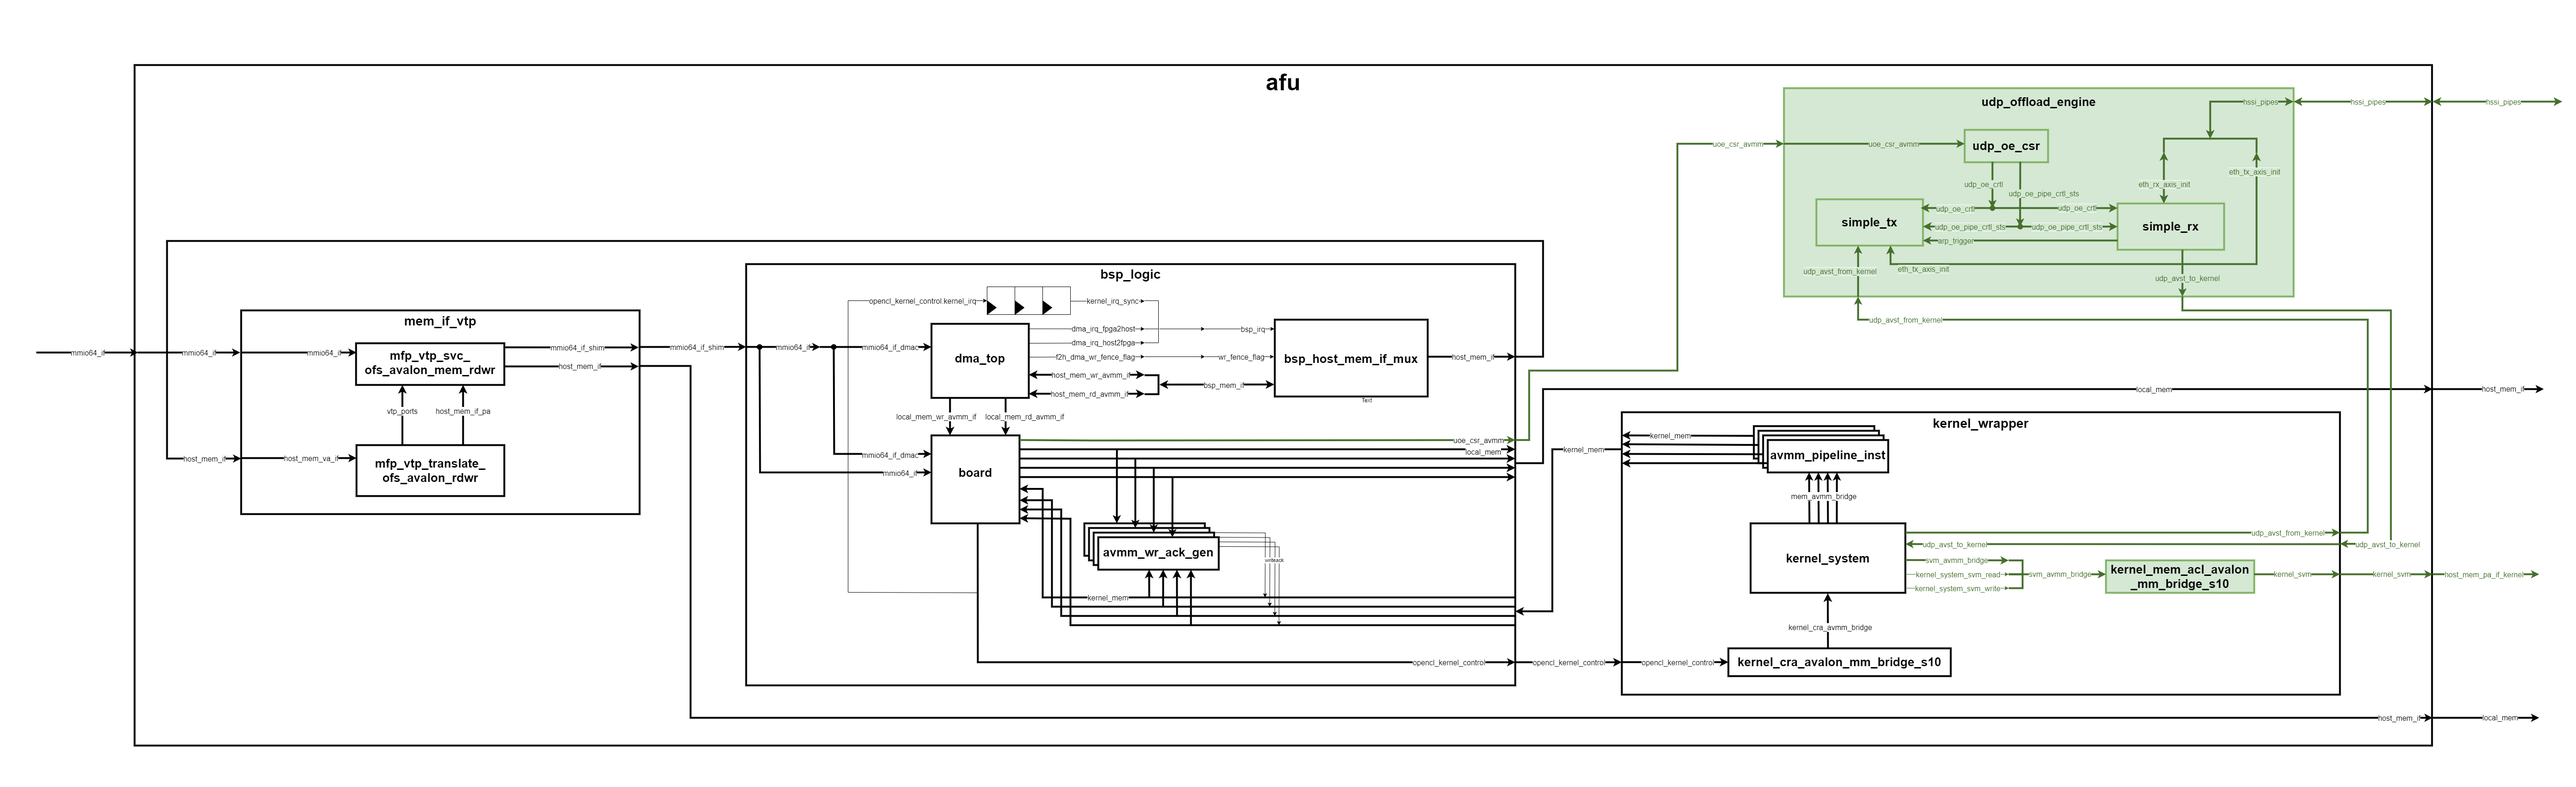
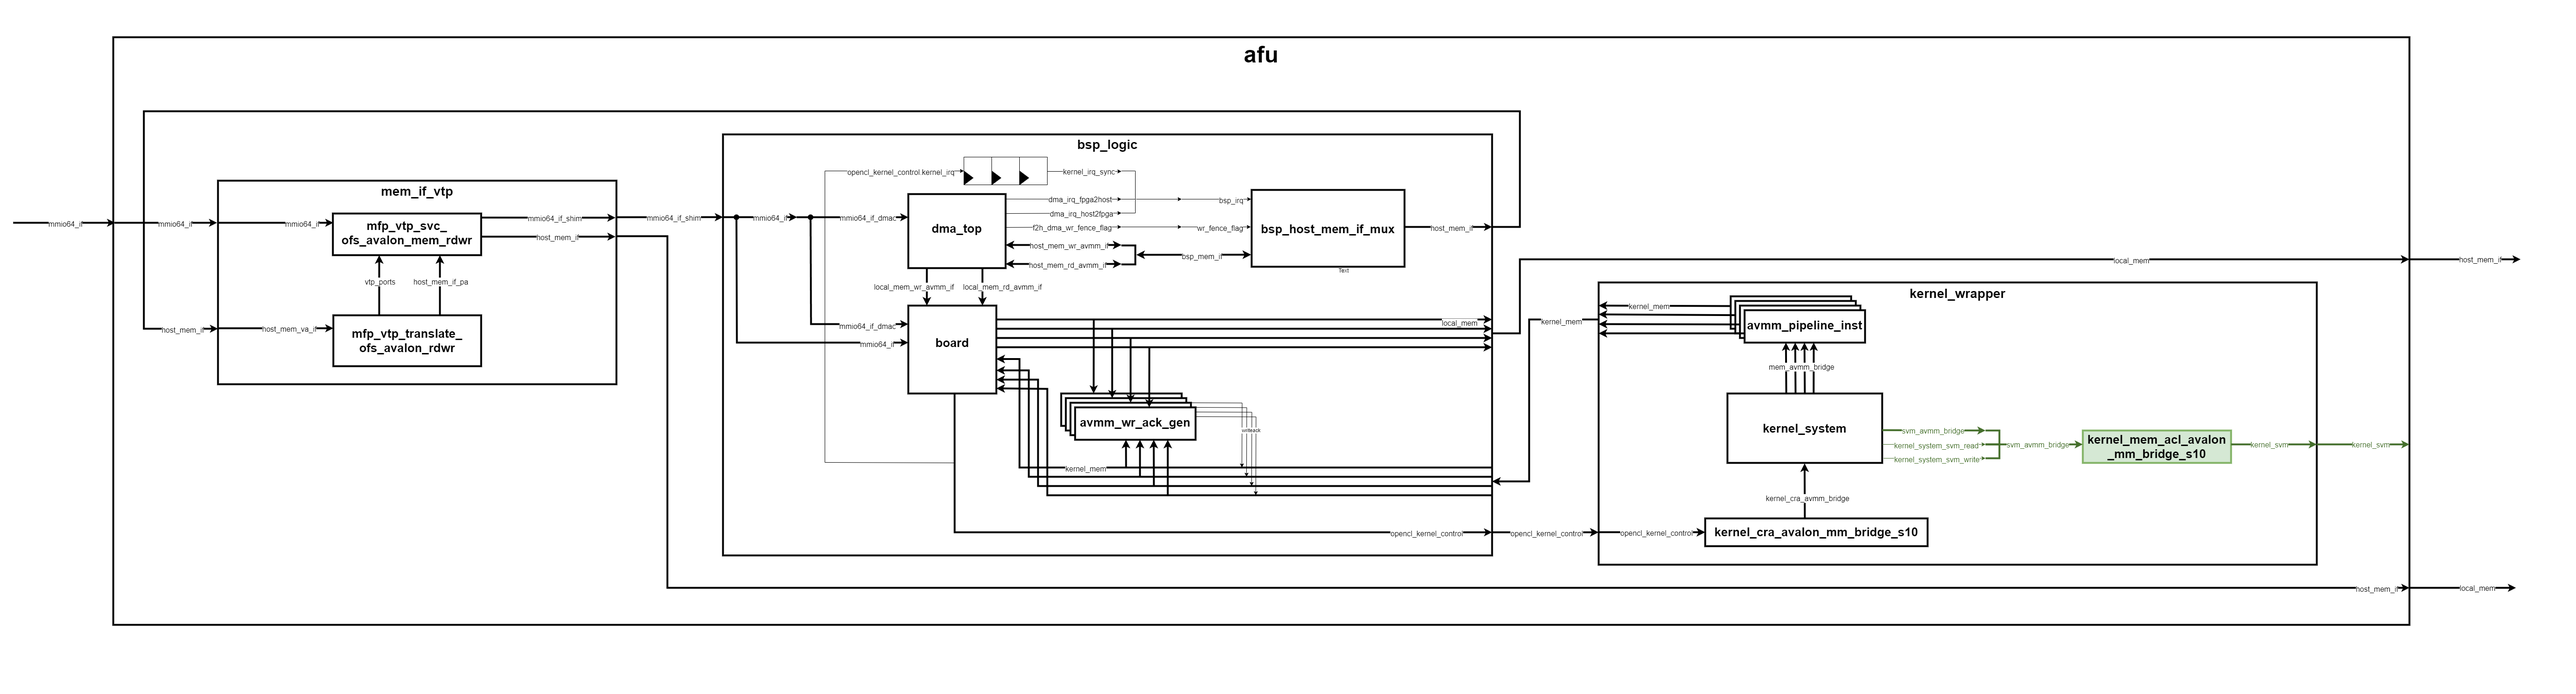
Update

Changed region(s): [[0.0311, 0.0307, 0.9957, 0.9507], [0.0311, 0.1533, 0.5912, 0.2147], [0.4978, 0.2453, 0.529, 0.276]]

diff --git a/doc/setup.md b/doc/setup.md
@@ -7,20 +7,40 @@ Virtual machine running `Ubuntu 22.04 LTS` :
 
 ## Tools <a name="ch_tools"></a>
 ### Intel oneAPI BAse Toolkit 2024.0.1
-  * [Download l_BaseKit_p_2024.0.1.46.sh](https://registrationcenter-download.intel.com/akdlm/IRC_NAS/163da6e4-56eb-4948-aba3-debcec61c064/l_BaseKit_p_2024.0.1.46.sh)
-  * Install<sup>[[]](references.md#ref_intel_install)</sup>
-  ```bash
-  $ sudo sh ./l_BaseKit_p_2024.0.1.46.sh -a --silent --eula accept
-  ```
-  * Add path of the DPC++/C++ compiler to PATH environment variable
-  ```bash 
-  $ nano ~/.bashrc
-  export PATH=$PATH:/opt/intel/oneapi/compiler/latest/bin
-  $ source ~/.bashrc
-   ```
+* [Download l_BaseKit_p_2024.0.1.46.sh](https://registrationcenter-download.intel.com/akdlm/IRC_NAS/163da6e4-56eb-4948-aba3-debcec61c064/l_BaseKit_p_2024.0.1.46.sh)
+* Install<sup>[[]](references.md#ref_intel_install)</sup>
+```bash
+sudo sh ./l_BaseKit_p_2024.0.1.46.sh -a --silent --eula accept
+```
 
 ### OneAPI ASP OFS 2023.2-1
-* https://github.com/OFS/oneapi-asp/tree/ofs-2023.2-1
+```bash
+git clone --branch ofs-2023.2-1 https://github.com/OFS/oneapi-asp.git
+```
 
 ### PR-tree template for n6001
 * [Download](https://github.com/OFS/ofs-agx7-pcie-attach/releases/download/ofs-2023.2-1/pr_template-n6001.tar.gz)
+
+## Set Environment Variables 
+```bash
+source /opt/intel/oneapi/setvars.sh
+```
+
+> [!NOTE]
+> It affects the current shell and its children, not the parent.
+
+
+## Samples (da modificare)
+* Clone repository
+```bash
+git clone --branch 2024.0.0 https://github.com/oneapi-src/oneAPI-samples.git
+```
+*
+```bash
+source /opt/intel/oneapi/setvars.sh
+cd path-to-sample-location
+mkdir build
+cd build
+cmake -DFPGA_DEVICE=/home/spena/oneapi-asp/n6001:ofs_n6001 ..
+make
+```

diff --git a/doc/arch_diagram.md b/doc/arch_diagram.md
@@ -1,11 +1,11 @@
 # Architectural Diagram
 
 <p align="center">
-  <img src="img/base_arch_diagram.png" width="1000">
+  <img src="img/base_arch_diagram_pipes.png" width="1000">
 </p>
 
 <p align="center">
-  <img src="img/arch_diagram.png" width="1000">
+  <img src="img/arch_diagram_pipes.png" width="1000">
 </p>
 
 ## Diagram Legend <a name="ch_diagram_l"></a>
@@ -26,7 +26,7 @@
 * `kernel_wrapper`:
   * `avmm_pipeline_inst`: Pipeline bridge from the kernel to board.qsys. 
   * `kernel_system`;: Hardware generated from SYCL, it has four interfaces:
-    * putput interrupt line (kernel_irq).
+    * output interrupt line (kernel_irq).
     * AVMM slave CSR interface used to write parameters and commands (e.g. start, busy, pending interrupt, etc).
     * read/write AVMM master interface for each DDR memory bank.
     * read/write AVMM master interface for host memory (Shared/Unified Virtual Memroy SVM/USM).
@@ -36,3 +36,14 @@
 * `Slave/Agent/Sink`: It has waitrequest, readdatavalid, readdata, writeresponsevalid signals as output.
 * `to_sink/to_slave`: SystemVerilog mopdport identifier, used to identify the connection from source toward sink (the current module is the source).
 * `to_source/to_master`: SystemVerilog mopdport identifier, used to identify the connection from sink toward source (the current module is the sink).
+
+
+# n6001 vs n6001_iopipes
+* afu.sv
+  * Manca il modulo udp_offload_engine ed il relativo #ifdef 
+  * Nell'istanza del modulo kernel_wrapper, manca l'#ifdef con la macro INCLUDE_USM_SUPPORT
+* bsp_logic.sv / kernel_wrapper.sv
+  * Manca l'#ifdef con la macro INCLUDE_UDP_OFFLOAD_ENGINE
+
+
+

diff --git a/README.md b/README.md
@@ -26,4 +26,8 @@ This project aims at analysing and evaluating the implementation of `I/O Pipes f
 
 # Cose da fare
 * Setup macchina virtuale
-* Valutare le differenze con la versione no-pipes. Diagrammi alla mano e valutando le differenza tra i vari file
+* Valutare le differenze con la versione no-pipes, l'obiettivo è costruire una comprensione di quali sono i componenti hardware necessari per implementare le pipe.
+
+
+# Dubbi 
+* In https://ofs.github.io/ofs-2023.2/hw/common/user_guides/oneapi_asp/ug_oneapi_asp/#26-compile-and-run-oneapi-sample-applications, ogni bolta che eseguo un comando cmake il contenuto della cartella build viene sovrascritto ?
